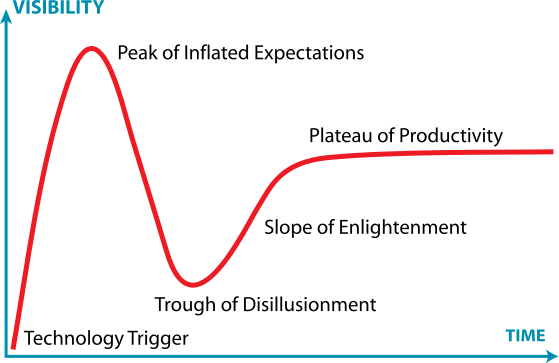
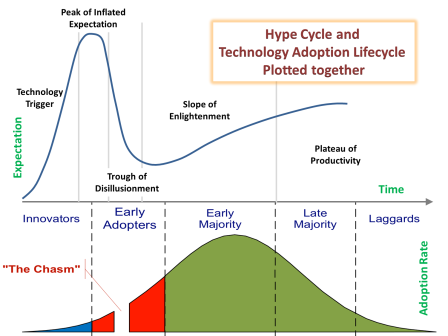
adding real content

diff --git a/1709-unigis-giscloud/index.html b/1709-unigis-giscloud/index.html
@@ -7,7 +7,10 @@
     <meta name="apple-mobile-web-app-status-bar-style" content="black-translucent" />
     <meta name="viewport" content="width=device-width, initial-scale=1.0, maximum-scale=1.0, user-scalable=no">
     <link rel="stylesheet" href="../resources/reveal.js/reveal.js-3.5.0/css/reveal.css">
-    <link rel="stylesheet" href="../resources/reveal.js/reveal.js-3.5.0/css/theme/moon.css" id="theme">
+<!--     <link rel="stylesheet" href="../resources/reveal.js/reveal.js-3.5.0/css/theme/moon.css" id="theme"> -->
+    <link rel="stylesheet" href="../resources/carto/carto.css" id="theme">
+    <link rel="stylesheet" href="../resources/reveal.js/css/custom.css">
+    <!-- <link rel="stylesheet" href="../resources/reveal.js/css/moon-custom.css"> -->
 
     <!-- If the query includes 'print-pdf', use the PDF print sheet -->
     <script>
@@ -45,7 +48,7 @@
         progress: true,
         history: true,
         center: true,
-        slideNumber: true,
+        slideNumber: 'c/t',
         theme: Reveal.getQueryHash().theme, // available themes are in /css/theme
         transition: Reveal.getQueryHash().transition || 'cube', // default/cube/page/concave/convex/zoom/linear/fade/none
         // Optional libraries used to extend on reveal.js

diff --git a/resources/reveal.js/css/custom.css b/resources/reveal.js/css/custom.css
@@ -1,0 +1,23 @@
+.reveal section img.logo{
+    max-width: 50px;
+    max-height: 50px;
+    border: none;
+    background: none;
+    vertical-align: middle;
+    margin: 0;
+    padding: 0;
+}
+
+.reveal.cube .slides section.only-background:not(.stack):before,
+.reveal.cube .slides section.only-background:not(.stack):after{
+    content: none;
+}
+
+.reveal section img{
+    max-width: 90%;
+    max-height: 500px;
+}
+
+.reveal.cube .slides section.light-background:not(.stack):before{
+    background: rgba(22,41,69,0.5);
+}

diff --git a/resources/carto/carto.css b/resources/carto/carto.css
@@ -348,7 +348,7 @@ Location Red
 #FF918F
 
 Navy Blue
-#162945
+#162945 rgb(22,41,69)
 
 Purple
 #C6ACFC

diff --git a/resources/reveal.js/css/moon-custom.css b/resources/reveal.js/css/moon-custom.css
@@ -1,0 +1,3 @@
+.reveal section strong{
+    color: rgb(238,232,213);
+}

diff --git a/1709-unigis-giscloud/PITCHME.md b/1709-unigis-giscloud/PITCHME.md
@@ -1,12 +1,13 @@
-# Servicios en la nube para el desarrollo de aplicaciones geográficas <!-- .element style="font-size:2em;"-->
+![](imgs//u-lecture_sig-en-la-nube_2.png) <!-- .element style="background:white;" -->
 
-Jorge Sanz · jorge@carto.com · 2017-09-20
+Note:
 
-http://bit.ly/1709-giscloud
-
-![](imgs//logo-20-unigis-sigte-fudg-2.png) <!-- .element style="background:white;" -->
+* Presentación
+* Dónde trabajo
+* Profe del master UNGIS
 
 ---
+<!-- .element data-background="imgs/clouds/kaushik-panchal-37070.jpg" class="light-background"-->
 
 ## Agenda
 
@@ -15,20 +16,63 @@ http://bit.ly/1709-giscloud
 * Plataforma
 * *Software*
 
+Note:
+
+La estructura de la charla es una primera introducción genérica a qué es el *cloud computing*, por qué es relevante y dos clasificaciones.
+
+
 ---
 
 ## ¿Qué es el Cloud Computing?
 
-* Definición
-* Por qué
+> Obtención de recursos de computación a demanda, aprovisionados de forma ágil y con mínimo esfuerzo.
 
 ---
 
- ## Curva de adopción (*hype curve*)
+## Por qué
 
-![](imgs/hype-curve.png) <!-- .element style="background:white;padding:20px;max-width:60%;" -->
+* Adaptación de recursos a necesidades reales
+* Seguridad y recuperación de backups<br/> (para PYMES sobre todo)<!-- .element class="fragment" -->
+* Facilidad de actualización de componentes<!-- .element class="fragment" -->
+* Facilidad de acceso a recursos<!-- .element class="fragment" -->
+* Medio ambiente<!-- .element class="fragment" -->
 
-[fuente](https://en.wikipedia.org/wiki/Hype_cycle)
+[fuente](https://www.salesforce.com/uk/blog/2015/11/why-move-to-the-cloud-10-benefits-of-cloud-computing.html)
+
+Note:
+
+* Con la nube podemos adaptar los recursos a nuestra disposición a nuestras necesidades actuales y a corto plazo, de manera que si nuestras condiciones cambian podemos ampliar o reducir esos recursos de forma ágil.
+
+* En las PYMES la entrada de las tecnologías en la nube ha facilitado el acceso a sistemas de *backup* y recuperación de datos antes solo disponibles a grandes corporaciones con departamentos de sistemas capaces de gestionar este tipo de situaciones.
+
+* En los servicios de *software* en la nube las actualizaciones (nuevas funcionalidades y también mejoras) se despliegan frecuentemente y quedan accesibles automáticamente. Por supuesto para nuevas versiones de APIs los desarrolladores tienen que migrar sus aplicaciones pero el ahorro de tiempo y costes es enorme.
+
+* En los servicios en la nube los recursos (máquinas, software, bases de datos, documentos) son ubicuos, están disponibles a cualquier hora y en cualquier parte del mundo.
+
+* Los recursos se gestionan en espacios que optimizan al máximo el consumo de energía, mucho más allá de lo que normalmente está disponible para centros de procesado de datos medianos o pequeños.
+
+---
+
+ ## *Hype curve*
+
+![](imgs/hype-curve.png) <!-- .element style="width:65%;" -->
+
+[fuente](https://setandbma.wordpress.com/2012/05/28/technology-adoption-shift/)
+
+Note:
+
+La *hype curve* es una figura acuñada por la consultora *Gartner* en la que ante una nueva tecnología, el ciclo de adopción de la misma a lo largo del tiempo sufre subidas y bajadas muy características. En una primera fase esta tecnología es adoptada de forma muy rápida por un grupo identificado como los Innovadores.
+
+Cuando la tecnología llega al cenit de su visibilidad es cuando es ampliamente aceptada por los conocidos como *Early adopters*, aquellos que están siempre a última y se entusiasman rápidamente con cada nueva tecnología.
+
+En general después llega la bajada de la desilusión, donde estos usuarios se dan realmente cuenta de las dificultades o implicaciones a medio plazo que implican adoptar esta nueva tecnología.
+
+Ahí es donde empieza a realmente aprovecharse la tecnología de forma eficiente y adecuada para la mayoría de los casos y es cuando la misma está lista para ser usada por una mayoría de usuarios dispuestos a adoptar nuevas tecnologías.
+
+Con el tiempo la tecnología se asienta y alcanza una aceptación mayoritaria, aquí deja de ser novedad y un segundo gran grupo de *Late Adopters* se anima a usarla.
+
+Finalmente quedan aquellos usuarios más conservadores que cambian de tecnología con muy poca agilidad y que podrían adoptar estas tecnologías solo cuando ya la mayoría del mercado ha probado su eficiencia.
+
 
 ---
 
@@ -38,13 +82,30 @@ http://bit.ly/1709-giscloud
 
 [fuente](https://softwarestrategiesblog.com/2011/07/27/gartner-releases-their-hype-cycle-for-cloud-computing-2011/)
 
+Note:
+
+Si miramos la curva de Gartner de 2011 para la computación en la nube vemos como hace ya seis años:
+
+* Los software como servicio (SaaS) y la virtualización ya estaban en fase de adopción mayoritaria
+* El almacenamiento en la nube estaba en plena bajada del *hype*
+* Las nubes privadas, el correo en la nube y el la plataforma como servicio (PaaS) estaban en el pico del *hype*
+* Un gran número de tecnologías vinculadas a la nube estaban en el tren de la innovación
+
 ---
+
 
 ## 2016
 
 ![](imgs/gartner-2017.png) <!-- .element style="background:white;padding:20px;max-width:60%;" -->
 
 [fuente](http://www.project-consult.de/in_der_diskussion/gartner_hype_cycles_2016)
+
+Note:
+
+Pero si nos vamos a 2016, han pasado ya cinco años que es un mundo en este ámbito y ya hace tiempo que las tecnologías de la nube pasaron su pico y están la curva de adopción por el gran mercado.
+
+Estamos en la época en la que el Internet de las Cosas, las criptomonedas, la impresión en 3D o los dispositivos incrustados en la ropa están en lo alto del pico, la nube ya es parte de nuestra oferta y debemos aprovecharla.
+
 
 ---
 
@@ -54,6 +115,15 @@ http://bit.ly/1709-giscloud
 * Privadas
 * Híbridas
 
+Note:
+
+* **Públicas**: es la venta al por mayor de la computación. Grandes proveedores de servicios ponen toda su infraestructura al servicio del gran público desde los gobiertos y las grandes organizaciones a los emprendedores y estudiantes. Cualquiera puede abrir una cuenta en uno de estos proveedores y empezar a utilizar sus servicios inmediatamente.
+
+* **Privadas**: las grandes agencias, pero también las organizaciones y empresas medianas están adoptando internamente en sus propios sistemas de información las tecnologías de la nube, que despliegan en sus propios centros de datos y les permite escalar servicios y recursos de forma ágil.
+
+* **Híbridas**: a medio camino muchas organizaciones mantienen datos sensibles dentro de sus propios recursos y explotan los bajos costes de las nubes públicas para aquellos datos derivados o agregados que ya no son tan sensibles.
+
+
 ---
 
 ## Tipos de servicios
@@ -62,33 +132,160 @@ http://bit.ly/1709-giscloud
 * Plataforma (PaaS)
 * Servicio (SaaS)
 
+Note:
+
+En función del tipo de recurso de computación al que queremos acceder, los proveedores de computación en la nube nos ofrecen distintos tipos de servicios.
+
+* Si lo que queremos es disponer de servidores completos y virtualizados entonces necesitamos un proveedor de Infraestructura como Servicio (IaaS). Estos proveedores permiten encender y apagar servidores a demanda de todo tipo de tamaños y automatizados. Pensemos por ejemplo en bancos levantando decenas de servidores que procesan nuestros datos de noche, cuando la demanda de hardware es menor y por tanto, más barata. Al llegar las horas de trabajo de esa zona el hardware se vuelve "mas caro" y las apagan hasta el día siguiente.
+
+* Si no queremos preocuparnos de mantener servidores y solo queremos tener un lugar en el que desplegar nuestro *software* (por ejemplo un servidor de mapas o una base de datos) entonces tenemos que buscar un proveedor de Plataforma como Servicio (PaaS). Los proveedores nos dan un mecanismo sencillo para "desplegar" versiones de nuestro software de manera que automáticamente quedan a disposición de nuestros usuarios, sin tener que preocuparnos de mantener un sistema operativo concreto, o incluso el tamaño del dispositivo de almacenamiento. Si tenemos más usuarios, escalaremos la capacidad de nuestra plataforma para aceptar esa carga extra de tráfico.
+
+* Si lo que queremos es simplemente acceder a un servicio ya desarrollado por un tercero y usarlo directamente bien como aplicaciones ya terminadas, bien como un conjunto de APIs sobre las que programar nuestras aplicaciones, entonces estamos hablando de un proveedor de un Software como Servicio (SaaS). Ejemplos clásicos de un SaaS son los proveedores de Correo Electrónico, donde nosotros directamente accedemos al servicio via web o bien a través de *software* en nuestros equipos que interactúa con el servidor mediante tecnologías y protocolos estándar.
+
+---
+<!-- .element data-background="imgs/clouds/gabriela-parra-66015.jpg" class="light-background"-->
+
+## Repasemos en detalle cada tipo de servicio
 
 ---
 
 ## IaaS
 
-- proveedores
-- ejemplo: levantar un servidor ad-hoc para procesado intenso, CARTO
-- pantallas de levantar un servidor con Google AWS con algo con PostGIS ya listo?
+Principales proveedores:
+- Amazon EC2
+- Google Compute Engine
+- Microsoft Azure
+- Digital Ocean
+
+Note:
+
+Los principales proveedores de infraestructura son Amazon, Google, Microsoft y Digital Ocean. Todos ellos proporcionan gran variedad de máquinas que arrancar con todo tipo de sistemas operativos y capacidades
+
+---
+
+## Google Compute Engine
+
+![](imgs/compute_engine.png)
+
+Note:
+
+En esta imagen vemos los precios de las máquinas estándar, hay otras con mayor capacidad de Memoria o CPU, o incluso de GPU.
+
+---
+
+## Google Compute Engine
+
+![](imgs/compute_engine_2.png)
+
+Note:
+
+En esta pantalla vemos la configuración de un potente servidor con 16 CPUs, 60 GB de RAM, 40GB de disco duro SSD y Debian 9. El coste es de unos 70 céntimos de dolar por hora.
+
+Lo mejor es que al estar en la nube solo pagamos por el tiempo que lo tenemos encendido por lo que si lo usamos por ejemplo para procesar datos durante nuestra jornada laboral podría costarnos unos 100 dólares al mes como mucho. Y si nos quedamos cortos o nuestro proyecto cambia podemos cambiar las características de la máquina, lo que se conoce como **escalado vertical**.
+
+---
+
+## Casos de uso
+
+* Nuestro proyecto utiliza<br/> configuraciones no estándar
+* Servidores para propósitos concretos<br/> *de usar y tirar*
+
+Note:
+
+En CARTO usamos el IaaS de Amazon, Google y Digital Ocean ya que toda nuestra plataforma se ejecuta sobre servidores que necesitamos controlar.
+
+Otro caso típico es cuando necesitamos procesar un gran conjunto de datos para alguna tarea concreta y nuestros equipos de trabajo se quedan cortos. En esos casos levantamos un servidor muy potente, le cargamos los datos, los procesamos, nos descargamos los resultados y lo cerramos.
 
 ---
 
 ## PaaS
 
-- proveedores: heroku, beanstalk, google app engine, open shift, rds?, aiven?
-- funciones como una especialización?
-- Ejemplo: uso de Lambda para procesar tiles: Stamen
-- [revisar](https://www.slideshare.net/mobile/scitronpousty/openshift-geospatial)
+- Heroku
+- Amazon Beanstalk
+- Google App Engine
+- Open Shift
+- Cloud Foundry
+
+Note:
+
+Este modelo permite subir aplicaciones completas, normalmente conectadas a servicios incluidos de bases de datos (relacionales o de tipo NSQL). Se trata de aplicaciones convencionales como puede ser un gestor de contenidos o un servidor de mapas, es decir aplicaciones de tamaño considerable.
+
+Estos sistemas se caracterizan por facilitar de forma considerable el despliegue de las aplicaciones a los responsables de sistemas. En general trabajan directamente contra el sistema de control de versiones y mediante automatizaciones generan los recursos que se acaban desplegando en la nube.
+
+---
+
+## PaaS en su mínima expresión: *Serverless*
+
+- Amazon Lambda
+- Google Cloud Functions
+- Microsoft Azure Functions
+- IBM OpenWhisk
+
+Note:
+
+En los últimos años se han unido dos situaciones:
+
+* por un lado la mejora de tecnologías vinculadas a la virtualización de recursos (los conocidos como contenedores)
+* por otro la adopción de una forma de estructurar las aplicaciones en unidades mínimas que proporcionan funcionalidad conocidas como **microservicios**.
+
+La unión de estas dos situaciones ha provocado el auge de un tipo nuevo de servicio, las Funciones como Servicio. Esto no es más que un servicio que permite subir una función que realiza una única tarea. Esta función *vive* en un entorno que solo está encendido mientras la función es invocada y no guarda ningún estado, simplemente se levanta, ejecuta algo y muere.
+
+--
+
+## Casos de uso
+
+* Desarrollamos software
+* Necesitamos poder escalar a demanda
+
+---
+
+## AWS Lambda para crear mapa de *tweets*
+
+* Una función **Lambda** recoge<br/>
+  los últimos **10 minutos** de tweets
+* Los procesa y los sube a una tabla en **CARTO**
+* Ventajas:
+  * **Coste**: ~30 segundoss cada 10 minutos
+  * El **estado** se almacena en CARTO
+  * **Monitorización** integrada
+
+Note:
+
+En el equipo de soluciones de CARTO solemos hacer mapas de tweets varias veces al año. Antes teníamos un servidor en el que desplegábamos una aplicación que teníamos que poner en marcha y monitorizar de forma muy manual.
+
+Desde hace un año más o menos venimos desplegando una función de Lambda que programamos para que se ejecute cada pocos minutos (5 o 10) y que se encarga de recoger los últimos tweets y subirlos a una tabla de CARTO. Usamos otra tabla para almacenar el estado de manera que entre una ejecución y la siguiente no es necesario mantener nada más.
+
+Esto nos ha permitido olvidarnos de un servidor y ciertamente descansar más porque estos mapas solían ser en fin de semana!
+
+
+---
+<!-- .element data-background="imgs/superbowl.png" class="only-background"-->
+
+[&raquo;](https://cartodb.github.io/labs-twitter-superbowl50/)
+
+---
+
+## Generación de teselas
+
+[![](imgs/stamen.png)<!-- .element style="max-width:80%"-->](http://maps.stamen.com/terrain/#13/27.6680/85.2863)
+
+[más detalles](https://hi.stamen.com/stamen-aws-lambda-tiler-blog-post-76fc1138a145)
+
+Note:
+
+Otro ejemplo interesante es el desarrollo de la empresa de San Francisco Stamen. Su desarrollo es Open Source y se pueden consultar más detalles en el siguiente enlace en el que explican los pasos necesarios para desplegar esta arquitectura, que es ciertamente compleja pero preparada para servir teselas de terreno a escala global.
 
 ---
 
 ## SaaS
 
-- la forma más conocida de cloud
-- hay muchos s servicios
-- Open Source?
+* Es la forma más **común** de consumo<br/>
+  de servicios para el **gran público**
+* Hay servicios enfocados tanto<br/>
+  a **usuarios** como a **desarrolladores**
 
 ---
+<!-- .element data-background="imgs/clouds/dominik-kiss-341291.jpg" class="light-background"-->
 
 ## Veamos algunos servicios
 
@@ -147,8 +344,16 @@ http://bit.ly/1709-giscloud
 
 # ¡Gracias!
 
-Jorge Sanz · jorge@carto.com · 2017-09-20
+* ![](imgs/logo-twitter.png)<!-- .element class="logo" --> @xurxosanz
+* ![](imgs/logo-github.png)<!-- .element class="logo" --> ![](imgs/logo-linkedin.png)<!-- .element class="logo" --> @jsanz
+* [jorgesanz.net](https://www.jorgesanz.net)
 
-http://bit.ly/1709-giscloud
+[![](imgs//u-lecture_sig-en-la-nube.png) <!-- .element style="background:white;" -->](http://www.unigis.es/)
 
-![](imgs//logo-20-unigis-sigte-fudg-2.png) <!-- .element style="background:white;" -->
+---
+
+# Créditos
+
+* [Photo by Kaushik Panchal on Unsplash](https://unsplash.com/search/photos/cloud?photo=0juC5JIhPks)
+* [Photo by Gabriela Parra on Unsplash](https://unsplash.com/search/photos/cloud?photo=BdQk6Qm3vAU)
+* [Photo by Dominik Kiss on Unsplash](https://unsplash.com/search/photos/cloud?photo=JN7TZEsKaUM)
